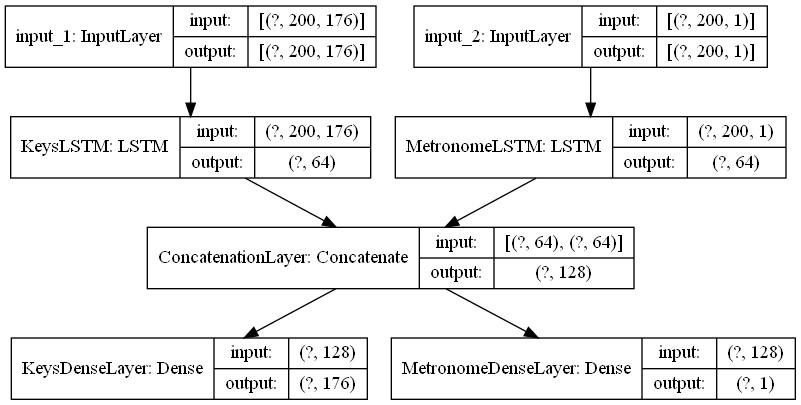
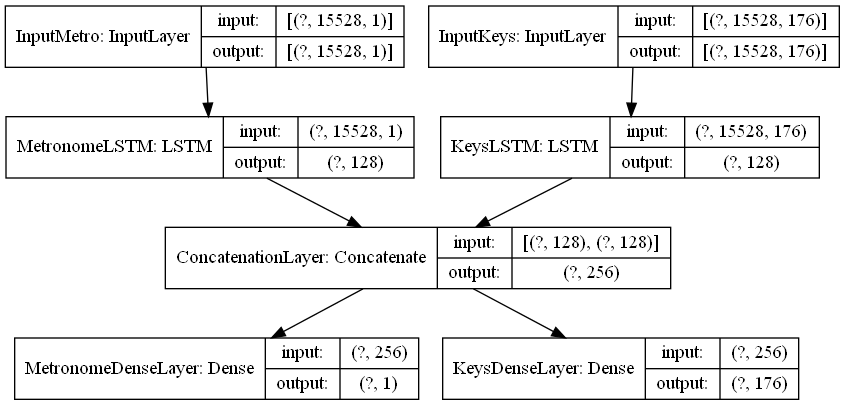
* changed away from generators due to tensor problem

diff --git a/src/datasets/music_dataset.py b/src/datasets/music_dataset.py
@@ -1,10 +1,11 @@
+from pandas.core.dtypes.missing import na_value_for_dtype
 import tensorflow as tf
 import matplotlib as mpl
 import numpy as np
 import os
 import pandas as pd
-from tensorflow.keras import Sequential
 from tensorflow.keras.preprocessing.sequence import TimeseriesGenerator
+import itertools
 
 basepath = "src/datasets/arrays/"
 
@@ -14,7 +15,9 @@ mpl.rcParams['axes.grid'] = False
 BASE_BPM = 100.0
 BPM_MODIFIER = 100.0
 # input/output size (for us=(88)*3 + 1  = 265)
-FEATURE_SIZE = 177
+FEATURE_NUM = 2
+FEATURE_SIZE_KEYS = 176
+FEATURE_SIZE_METRO = 1
 
 #  Is actually seems to do data windowing (@see https://www.tensorflow.org/tutorials/structured_data/time_series#data_windowing)
 # bisher verarbeitete samples
@@ -87,59 +90,77 @@ def get_dataset(batch_size=32, buffer_size=10000, train_split_pct=0.5, seed=13, 
 
     # get the data from the dataset and define the features (metronome and notes) + normalization to float values
     features = complete_dataframe_set.to_numpy()
-    features_extended = np.zeros(
-        (features.shape[0], FEATURE_SIZE), dtype=np.float)
+    #features_extended = np.zeros((features.shape[0], FEATURE_SIZE), dtype=np.float)
+    #features_extended = np.zeros(shape=(features.shape[0], FEATURE_NUM, FEATURE_SIZE_KEYS), dtype=np.float)
+    features_extended = {}
+
     if debug:
         print("Features Shape: {}".format(features.shape))
+        #print("Features_Extended Shape: {}".format(features_extended.shape))
         print("Amount of 16th-Note-Rows in Dataset: " + str(features.shape[0]))
-        print("Iterate over these...")
+
     for x in range(features.shape[0]):
-        features_extended[x][0] = (features[x][0]-BPM_MODIFIER)/BASE_BPM
+        # Some output, to see it is working on data
         if x%10000 == 0:
             print("{} rows transformed...".format(x))
+        features_extended[x] = []
+        features_extended[x].append(np.zeros((FEATURE_SIZE_METRO), dtype=np.float32))
+        features_extended[x].append(np.zeros((FEATURE_SIZE_KEYS), dtype=np.float32))
+
+        # Metronome
+        features_extended[x][0][0] = (features[x][0]-BPM_MODIFIER)/BASE_BPM
+        
+        # Notes/Keys
         for y in range(1, 89):
             if features[x][y] == 0:
                 #    features_extended[x][y*3 - 2] = 1.0 # Reducing this value does not help training
                 continue
             if features[x][y] == 1:
-                features_extended[x][y*2 - 1] = 1.0
+                features_extended[x][1][y*2 - 1] = 1.0
                 continue
             if features[x][y] == 2:
-                features_extended[x][y*2+1 - 1] = 1.0
+                features_extended[x][1][y*2+1 - 1] = 1.0
                 continue
             print(
                 "*** ERROR on feature normalization: There are values not fitting here ***")
-
+    
     features = None
+
     if debug:
         print(features_extended[0])
         print(features_extended[16])
         print(features_extended[32])
         print(features_extended[64])
         print(features_extended[128])
+        #print(features_extended.shape)
 
     # normalize data (splitting per amount of notes etc)
 
     # split for train and validation set
     #dataset = features.values
     dataset = features_extended
-    dataset_size = dataset.shape[0]
+    dataset_size = len(features_extended)
     print("Dataset contains {} rows, splitting by {}%".format(
         dataset_size, train_split_pct*100.0))
-    train_split = int(train_split_pct*dataset_size)
-    # ??? vvv was macht das?
-    #data_mean = dataset[:train_split].mean(axis=0)
-    #data_std = dataset[:train_split].std(axis=0)
+    train_split = int(train_split_pct*dataset_size) 
 
-    #dataset = (dataset - data_mean) / data_std
+    dataset = pd.DataFrame(dataset).transpose()
+    print(dataset.head())
 
     train_set = dataset[:train_split]
     test_set = dataset[train_split:]
+
+    train_set = train_set.to_numpy()
+    test_set = test_set.to_numpy()
+
+    print(train_set[0])
+
+    # TODO: This working would be great
+    #train_set = tf.convert_to_tensor(train_set)
+    #test_set = tf.convert_to_tensor(test_set)
+
     
-
-    # ??? ^^^
-
-    train_data_gen = TimeseriesGenerator(train_set, train_set,
+    train_data_gen = TimeseriesGenerator(data=train_set, targets=train_set,
                                          length=past_history, sampling_rate=1, stride=1,
                                          batch_size=batch_size)
 
@@ -154,6 +175,7 @@ def get_dataset(batch_size=32, buffer_size=10000, train_split_pct=0.5, seed=13, 
     test_data_gen = TimeseriesGenerator(test_set, test_set,
                                     length=past_history, sampling_rate=1, stride=1,
                                     batch_size=batch_size)
+
 
     # TODO: Check this, is this feasible here?
     # x_train_single, y_train_single = data_windowing(dataset, dataset, 0,
@@ -180,7 +202,7 @@ def get_dataset(batch_size=32, buffer_size=10000, train_split_pct=0.5, seed=13, 
     #val_data_single = val_data_single.batch(buffer_size)  # .repeat()
 
     #return train_data_single, val_data_single, x_train_single.shape[-2:]
-    return train_data_gen, test_data_gen, train_set.shape[-2:], test_set
+    return train_data_gen, test_data_gen, train_split, test_set, train_set
 
 
 if __name__ == '__main__':

diff --git a/src/trainers/music_trainer.py b/src/trainers/music_trainer.py
@@ -7,7 +7,7 @@ import pandas as pd
 import numpy as np
 
 # datasets
-from datasets.music_dataset import BASE_BPM, BPM_MODIFIER, FEATURE_SIZE, get_dataset as get_dataset_music
+from datasets.music_dataset import BASE_BPM, BPM_MODIFIER, FEATURE_SIZE_KEYS, FEATURE_SIZE_METRO, get_dataset as get_dataset_music
 PREDICTION_LENGTH = 100
 
 def plot_loss(history):
@@ -56,35 +56,67 @@ class TrainerMusic:
         return arr
 
 
-    def train(self, plot=True, batch_size=32, lstm_layers=16, composer=None, **kwargs):
+    def train(self, plot=True, batch_size=32, lstm_layers=16, composer=None, past_history=512, **kwargs):
         music = True
         if music:
-            future_target = FEATURE_SIZE # output size: bestimmt die größe des letzten Dense layer (u.a.)
+            future_target = FEATURE_SIZE_METRO+FEATURE_SIZE_KEYS # output size: bestimmt die größe des letzten Dense layer (u.a.)
             plot_multi_variate = False
             single_step_prediction = True # Will break model.fit() with False
             # get dataset
-            training_set_gen, validation_set_gen, shape, test_dataset = get_dataset_music(future_target=future_target,
+            training_set_gen, validation_set_gen, train_split, test_dataset, train_dataset = get_dataset_music(future_target=future_target,
                                                                     single_step=single_step_prediction,
-                                                                    batch_size=batch_size, composer=composer,train_split_pct=self.train_split)
+                                                                    batch_size=batch_size, composer=composer,train_split_pct=self.train_split, past_history=past_history)
         else:
             raise NotImplementedError()
 
         # tensorboard callback to log model training
         tensorboard_callback = tf.keras.callbacks.TensorBoard(log_dir="./log")
 
+        # TODO: INPUT DATA GENERATOR NEEDS TO BE CONVERTED TO TWO GENERATORS
+        print("Train Set Length: {}".format(train_split))
         input_shape = {}
-        input_shape["shape_key"] = (200,176)
-        input_shape["shape_metro"] = (200,1)
+        input_shape["shape_metro"] = (FEATURE_SIZE_METRO)
+        input_shape["shape_key"] = (FEATURE_SIZE_KEYS)
+
+        print(training_set_gen[0])
+
+        train_metro = []
+        for tm in train_dataset[:,0]:
+            train_metro.append(tm[:])
+
+        train_keys = []
+        for tk in train_dataset[:,1]:
+            train_keys.append(tk[:])
+
+        val_metro = []
+        for vm in test_dataset[:,0]:
+            val_metro.append(vm[:])
+
+        val_keys = []
+        for vk in test_dataset[:,1]:
+            val_keys.append(vk[:])
+
+        train_metro = tf.convert_to_tensor(train_metro)
+        train_keys = tf.convert_to_tensor(train_keys)
+
+        val_metro = tf.convert_to_tensor(val_metro)
+        val_keys = tf.convert_to_tensor(val_keys)
+
+        print(train_metro)
+        print(train_keys)
 
         # get model
         model = get_model(input_shape=input_shape, lr=self.learning_rate, future_target=future_target, lstm_layers=lstm_layers)
 
         # train model
         history = model.fit(
-            training_set_gen,
-            validation_data=validation_set_gen,
+            x=[train_metro, train_keys],
+            validation_data=[val_metro, val_keys],
             epochs=self.epochs,
-            callbacks=[tensorboard_callback]
+            callbacks=[tensorboard_callback],
+            shuffle=False,
+            workers=4,
+            use_multiprocessing = True
         )
 
         print("Parameters: {}".format(model.count_params()))

diff --git a/src/models/music_lstm.py b/src/models/music_lstm.py
@@ -2,32 +2,32 @@ import tensorflow as tf
 from tensorflow.python.keras.layers.core import Dropout
 from tensorflow import keras
 
-from datasets.music_dataset import FEATURE_SIZE
+from datasets.music_dataset import FEATURE_SIZE_KEYS, FEATURE_NUM, FEATURE_SIZE_METRO
 
                                      # output size (for us=(88)*2 + 1  = 177)
-def get_model(input_shape, lr=0.001, future_target=FEATURE_SIZE, summary=True, lstm_layers=32):
+def get_model(input_shape, lr=0.001, future_target=FEATURE_SIZE_KEYS+FEATURE_SIZE_METRO, summary=True, lstm_layers=32):
     print("Input Shape: {}".format(input_shape))
 
-    input_keys = keras.Input(shape=input_shape["shape_key"])
-    input_metro = keras.Input(shape=input_shape["shape_metro"])
-
-    lstm_keys = keras.layers.LSTM(lstm_layers, dropout=0.3, unroll=False, use_bias=True,name="KeysLSTM")
-    lstm_keys_output = lstm_keys(input_keys)
+    input_metro = keras.Input(shape=input_shape["shape_metro"], name="InputMetro")
+    input_keys = keras.Input(shape=input_shape["shape_key"], name="InputKeys")
 
     lstm_metro = keras.layers.LSTM(lstm_layers, dropout=0.3, unroll=False, use_bias=True, name="MetronomeLSTM")
     lstm_metro_output = lstm_metro(input_metro)
 
+    lstm_keys = keras.layers.LSTM(lstm_layers, dropout=0.3, unroll=False, use_bias=True,name="KeysLSTM")
+    lstm_keys_output = lstm_keys(input_keys)
+
     concat_1 = keras.layers.Concatenate(name="ConcatenationLayer")
-    concat_1_output = concat_1([lstm_keys_output, lstm_metro_output])
+    concat_1_output = concat_1([lstm_metro_output, lstm_keys_output])
 
     #dense_1 = tf.keras.layers.Dense(future_target)
     #dense_1_output = dense_1(concat_1_output)
 
-    dense_keys = tf.keras.layers.Dense(future_target-1, activation="sigmoid", name="KeysDenseLayer")
-    dense_keys_output = dense_keys(concat_1_output)
-
-    dense_metronome = tf.keras.layers.Dense(1, activation="relu", name="MetronomeDenseLayer")
+    dense_metronome = tf.keras.layers.Dense(FEATURE_SIZE_METRO, activation="relu", name="MetronomeDenseLayer")
     dense_metronome_output = dense_metronome(concat_1_output)
+
+    dense_keys = tf.keras.layers.Dense(FEATURE_SIZE_KEYS, activation="sigmoid", name="KeysDenseLayer")
+    dense_keys_output = dense_keys(concat_1_output)
 
     music_lstm_model = keras.Model(inputs=[input_metro, input_keys], outputs=[dense_metronome_output, dense_keys_output], name="music_lstm_model")
 
@@ -46,7 +46,7 @@ def get_model(input_shape, lr=0.001, future_target=FEATURE_SIZE, summary=True, l
     #])
 
                     # Liu, Bach in 2014 shows better performance with rmsprop             # checked with mse, categorical_crossentropy, binary_crossentropy
-    music_lstm_model.compile(optimizer=tf.keras.optimizers.RMSprop(learning_rate=lr), loss=[keras.losses.BinaryCrossentropy(), keras.losses.MeanSquaredError()], metrics=['binary_crossentropy', 'mae'])
+    music_lstm_model.compile(optimizer=tf.keras.optimizers.RMSprop(learning_rate=lr), loss=[keras.losses.MeanSquaredError(), keras.losses.BinaryCrossentropy()], loss_weights=[1.0,0.2], metrics=['binary_crossentropy', 'mae'])
 
     if summary:
         # Print out model information on parameters (important for calculating the size of VRAM)

diff --git a/src/main.py b/src/main.py
@@ -11,7 +11,7 @@ def main():
     parser.add_argument('--epochs', type=int, default=5) # Test with 120
     parser.add_argument('--learning_rate', type=float, default=0.002)
     parser.add_argument('--batch_size', type=int, default=256)
-    parser.add_argument('--lstm_layers', type=int, default=64)
+    parser.add_argument('--lstm_layers', type=int, default=128)
     parser.add_argument('--composer', type=str, default="grieg")
     parser.add_argument('--val_split', type=float, default=0.2)
     parser.add_argument('--train_split', type=float, default=0.8)
